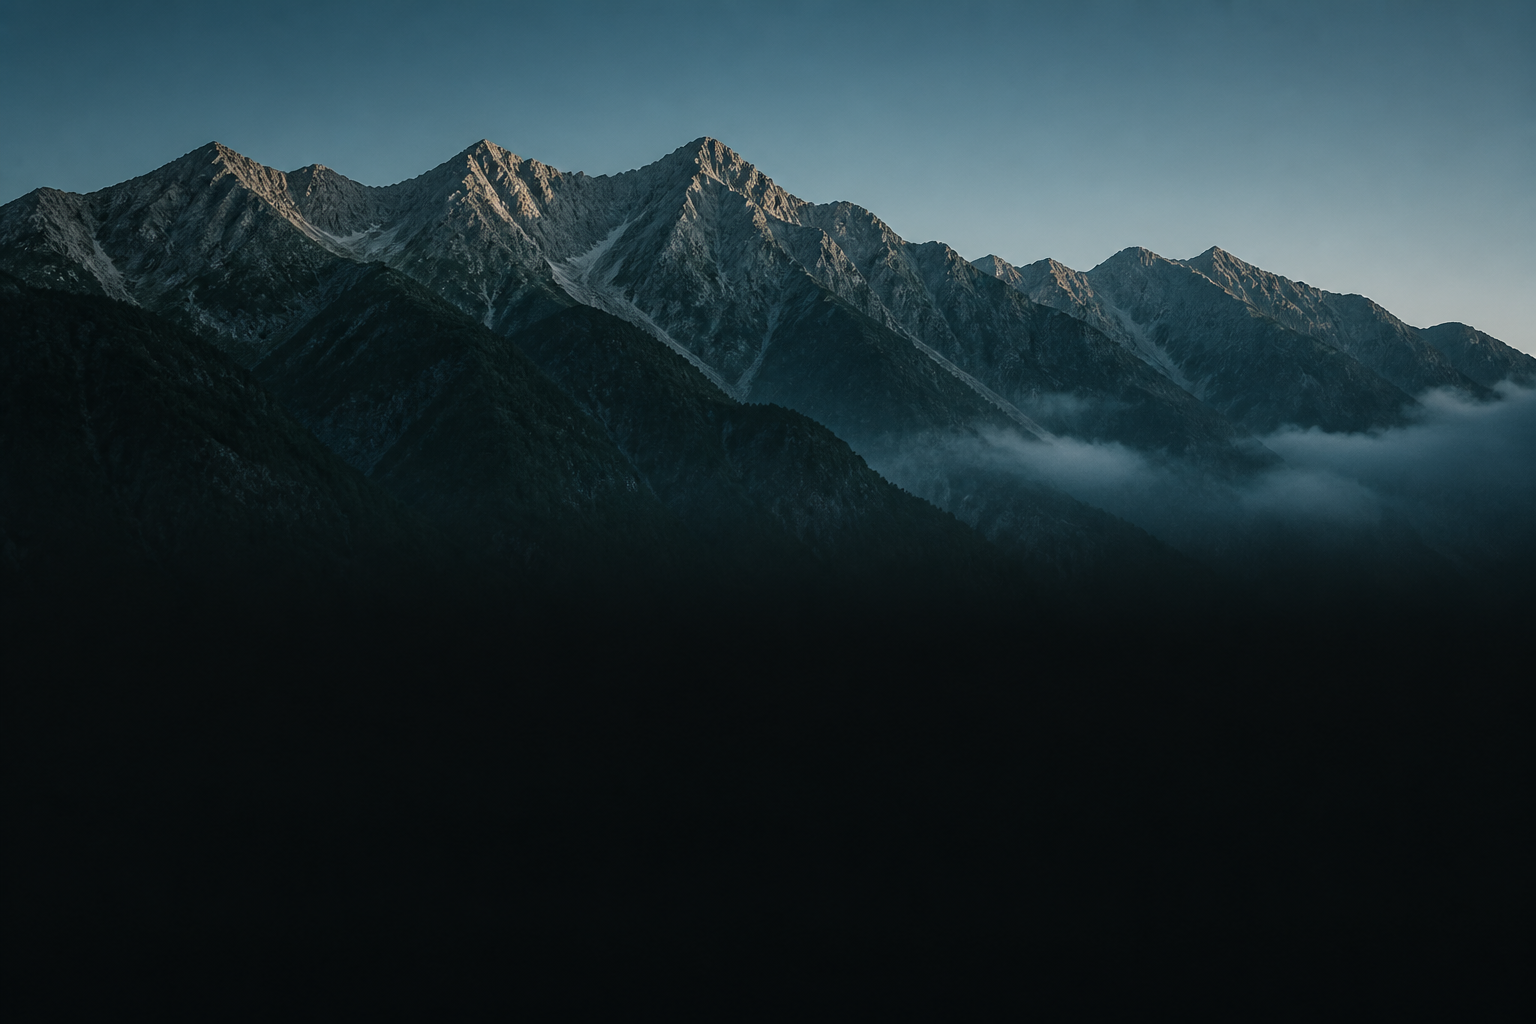
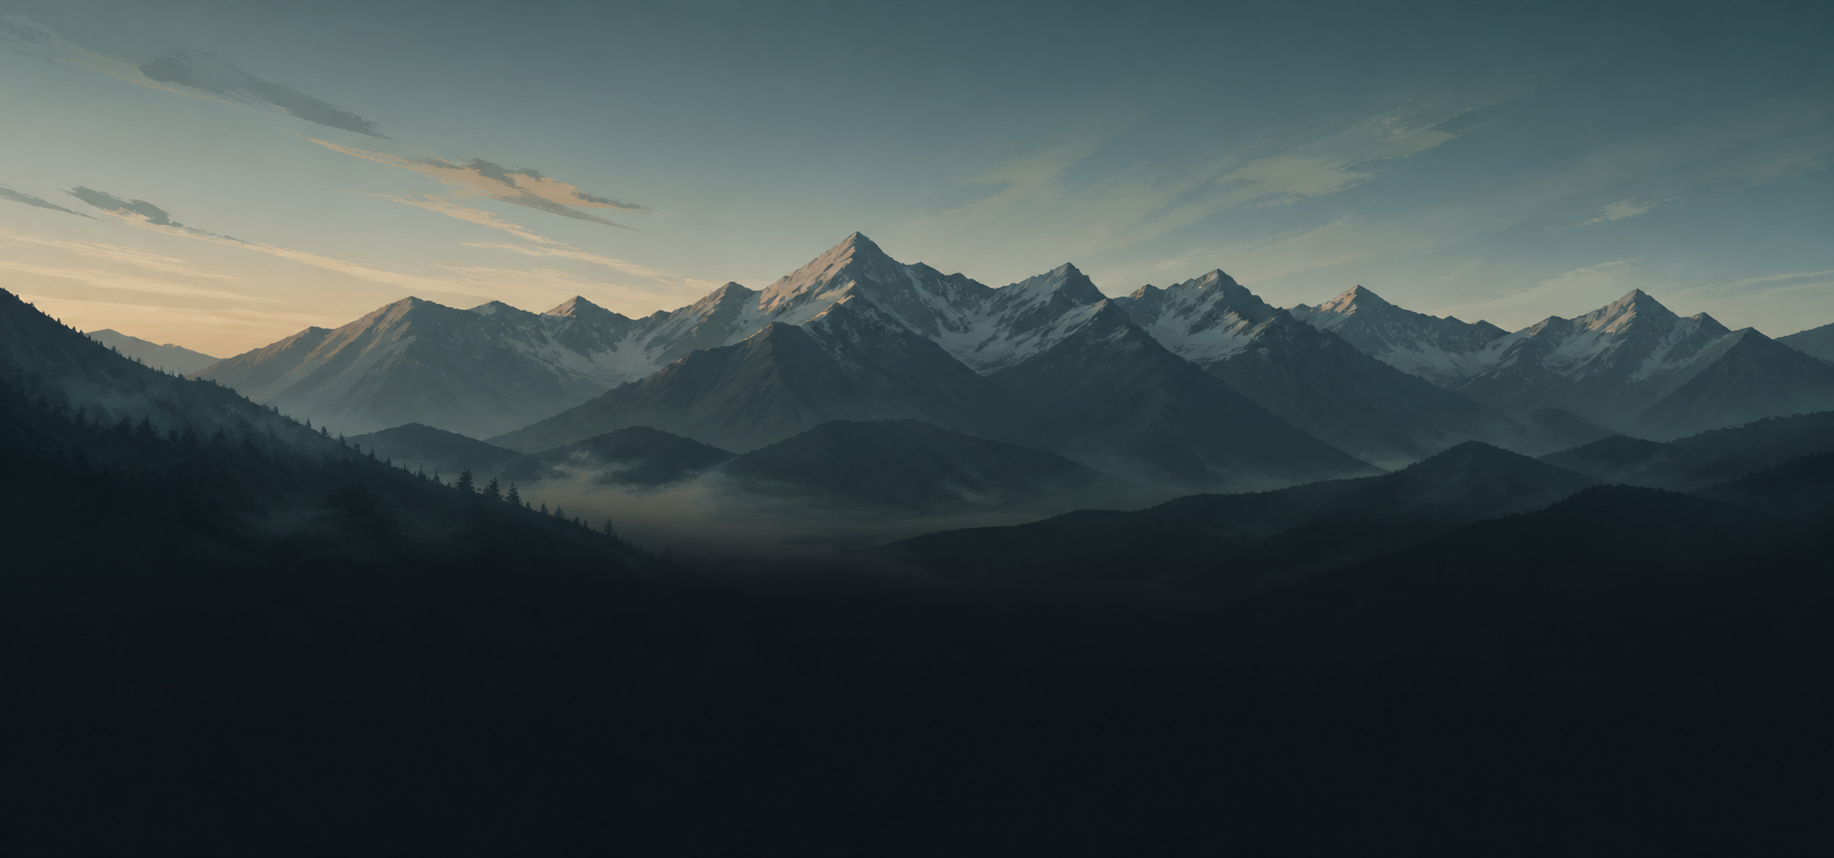
Restyle mountain hero image

diff --git a/src/app/page.tsx b/src/app/page.tsx
@@ -5,7 +5,7 @@ import { Projects } from "../components/Projects";
 export default function Home() {
   return (
     <main className="relative min-h-screen overflow-hidden bg-background text-text">
-      <div className="fixed inset-x-0 top-0 z-0 h-[38rem] bg-[url('/images/mountain-hero.png')] bg-cover bg-center opacity-60" />
+      <div className="fixed inset-x-0 top-0 z-0 h-[38rem] bg-[url('/images/mountain-hero.png')] bg-cover bg-[center_30%] opacity-65" />
       <div className="fixed inset-x-0 top-0 z-0 h-[42rem] bg-[linear-gradient(180deg,rgba(5,5,5,0.10)_0%,rgba(5,5,5,0.42)_42%,#050505_100%),linear-gradient(90deg,rgba(5,5,5,0.78)_0%,rgba(5,5,5,0.32)_48%,rgba(5,5,5,0.70)_100%)]" />
       <div className="fixed inset-0 z-0 bg-[linear-gradient(rgba(0,255,136,0.035)_1px,transparent_1px),linear-gradient(90deg,rgba(0,212,255,0.03)_1px,transparent_1px)] bg-[size:44px_44px]" />
       <div className="fixed inset-0 z-0 bg-[radial-gradient(circle_at_18%_12%,rgba(0,255,136,0.10),transparent_28%),radial-gradient(circle_at_82%_10%,rgba(0,212,255,0.08),transparent_28%),linear-gradient(180deg,rgba(5,5,5,0.04)_0%,rgba(8,8,8,0.68)_48%,#050505_100%)]" />